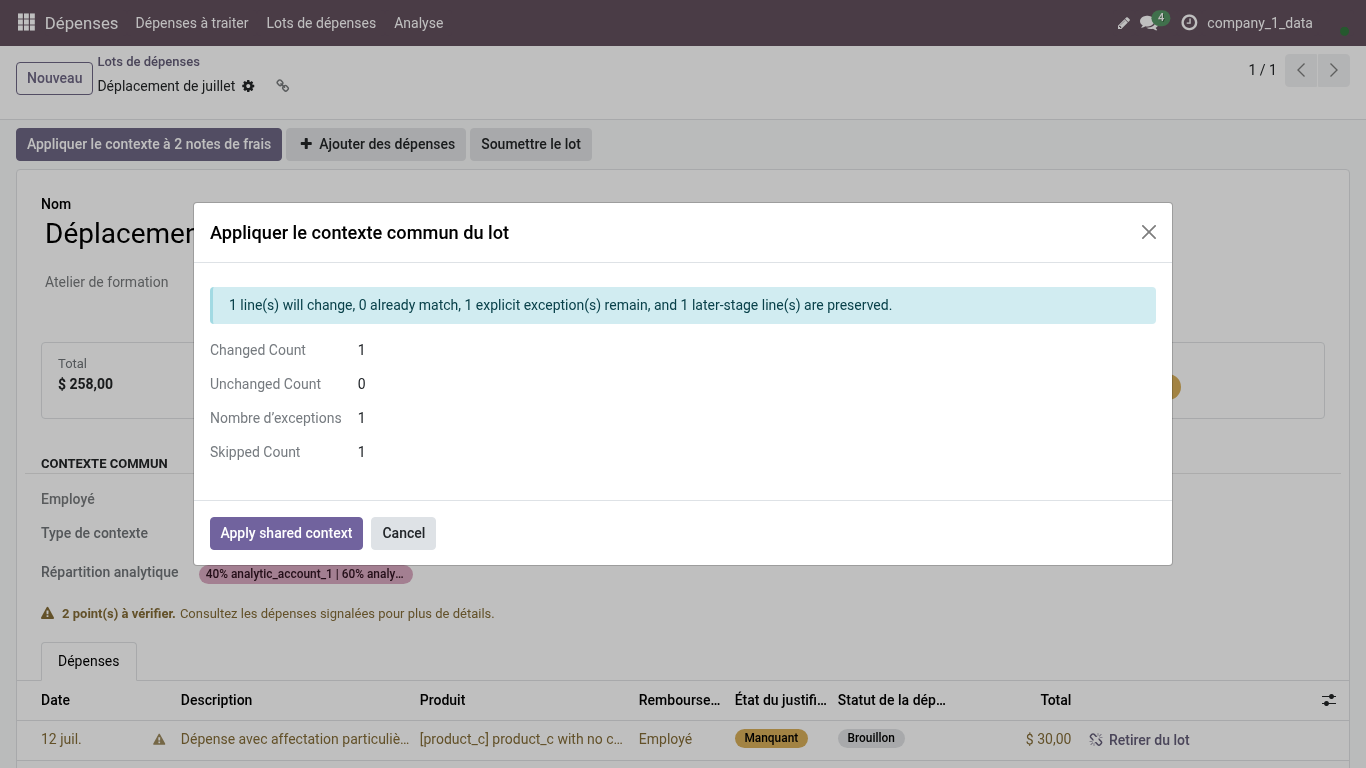
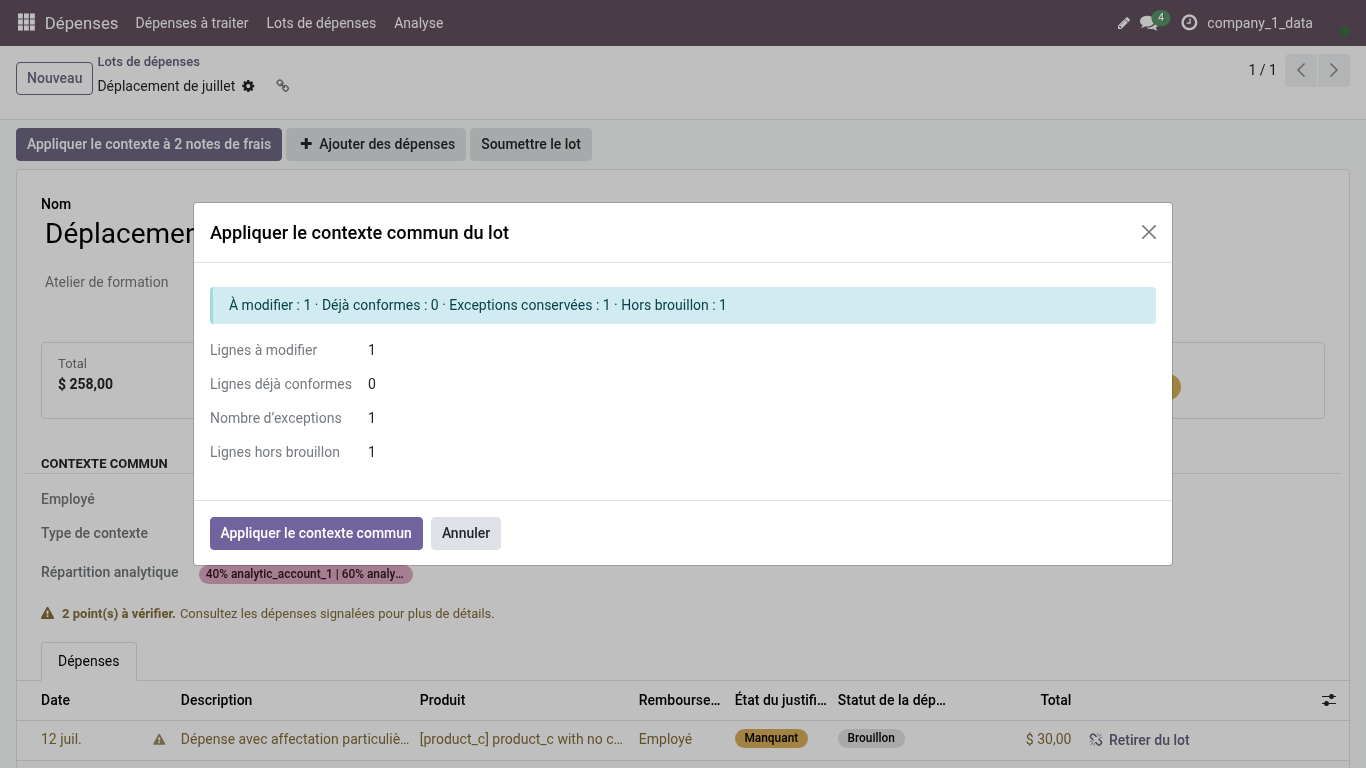
docs(expenses): show the French expense review counters
Replace the mixed-language preview capture with one from the French employee journey on the translation branch. Keep captures of the other unchanged steps.

Validation:
- French Chromium journey passed 1/1 on the combined source. Generated evidence and docs checks pass. Preview screenshot inspected on synthetic data and contains only PNG image chunks.

AI-generated commit

diff --git a/docs/users/how-to/verifier-un-lot-avant-envoi.md b/docs/users/how-to/verifier-un-lot-avant-envoi.md
@@ -15,7 +15,7 @@ tour: usl_expense_batch_focused_review
 source:
   - custom-addons/usl_expense_batch/tests/test_expense_batch_journeys.py
 screenshot_01-batch_png: 4fb0210a76b2b2381f92675ce0305fc9c17fa9a91f882ff1c5ba0a1f40b462c9
-screenshot_02-context_preview_png: 74ce8249b11037a036f2350233386250fa79832334d7754aa645b7066fb605da
+screenshot_02-context_preview_png: 657e5afa0a0bc13f241a78c5d52c094f30b5a01e0814ea86223f5eb2c17e25aa
 screenshot_03-exception_png: 3bef7c6d981f5b49e6eca9804a7e5783f4640e4d2c38027bb2e9b83489bffc0f
 generated: true
 ---
